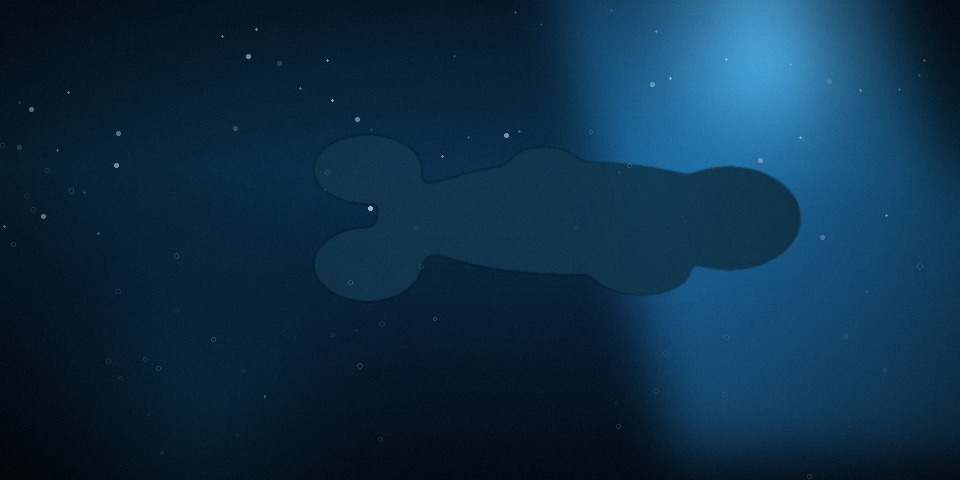
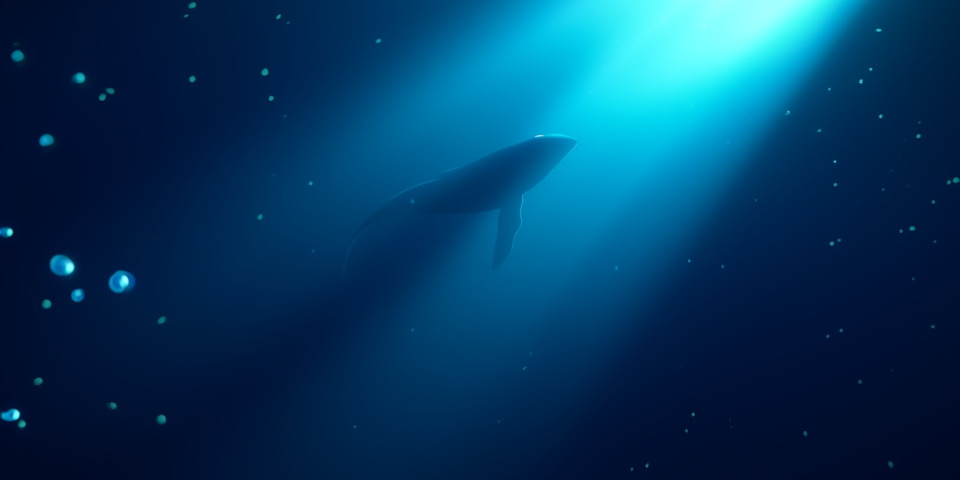
feat(theme): 主题底图改为生图模型产出，重排蒙版与排版

diff --git a/tools/gen_wallpaper.py b/tools/gen_wallpaper.py
@@ -1,0 +1,97 @@
+# SPDX-License-Identifier: GPL-3.0-or-later
+"""调通义万相（DashScope）生成主题底图：提交 → 轮询 → 下载。
+
+用法：
+    python tools/gen_wallpaper.py --prompt "..." --out xx.png [--size 1280*720] [--n 1]
+"""
+from __future__ import annotations
+
+import argparse
+import json
+import os
+import time
+import urllib.request
+from pathlib import Path
+
+BASE = "https://dashscope.aliyuncs.com/api/v1"
+SUBMIT = f"{BASE}/services/aigc/text2image/image-synthesis"
+TASK = f"{BASE}/tasks/"
+
+
+def _key() -> str:
+    key = os.environ.get("DASHSCOPE_API_KEY", "")
+    if key:
+        return key
+    env = Path(os.environ.get("LOCALAPPDATA", "")) / "hermes" / ".env"
+    if env.exists():
+        for line in env.read_text(encoding="utf-8", errors="ignore").splitlines():
+            if line.startswith("DASHSCOPE_API_KEY="):
+                return line.split("=", 1)[1].strip().strip('"')
+    raise SystemExit("找不到 DASHSCOPE_API_KEY")
+
+
+def _post(url: str, payload: dict, key: str, async_hdr: bool = False) -> dict:
+    data = json.dumps(payload).encode()
+    req = urllib.request.Request(url, data=data, method="POST")
+    req.add_header("Authorization", f"Bearer {key}")
+    req.add_header("Content-Type", "application/json")
+    if async_hdr:
+        req.add_header("X-DashScope-Async", "enable")
+    with urllib.request.urlopen(req, timeout=60) as r:
+        return json.loads(r.read())
+
+
+def _get(url: str, key: str) -> dict:
+    req = urllib.request.Request(url)
+    req.add_header("Authorization", f"Bearer {key}")
+    with urllib.request.urlopen(req, timeout=60) as r:
+        return json.loads(r.read())
+
+
+def main() -> int:
+    ap = argparse.ArgumentParser()
+    ap.add_argument("--prompt", required=True)
+    ap.add_argument("--out", required=True)
+    ap.add_argument("--size", default="1280*720")
+    ap.add_argument("--n", type=int, default=1)
+    ap.add_argument("--model", default="wanx2.1-t2i-turbo")
+    ap.add_argument("--negative", default="文字, 水印, 边框, 低清晰度, 变形")
+    args = ap.parse_args()
+
+    key = _key()
+    task = _post(SUBMIT, {
+        "model": args.model,
+        "input": {"prompt": args.prompt, "negative_prompt": args.negative},
+        "parameters": {"size": args.size, "n": args.n, "prompt_extend": True},
+    }, key, async_hdr=True)
+    tid = task["output"]["task_id"]
+    print(f"提交 {tid}")
+
+    for _ in range(60):
+        time.sleep(5)
+        info = _get(TASK + tid, key)
+        st = info["output"]["task_status"]
+        if st == "SUCCEEDED":
+            results = info["output"].get("results") or []
+            outs = []
+            stem = Path(args.out)
+            for i, item in enumerate(results):
+                url = item.get("url")
+                if not url:
+                    continue
+                target = stem if len(results) == 1 else stem.with_name(f"{stem.stem}-{i + 1}{stem.suffix}")
+                data = urllib.request.urlopen(url, timeout=120).read()
+                target.write_bytes(data)
+                outs.append(target)
+                print("下载", target, len(data) // 1024, "KB")
+            return 0 if outs else 1
+        if st in ("FAILED", "CANCELED", "UNKNOWN"):
+            print("失败：", json.dumps(info, ensure_ascii=False)[:400])
+            return 1
+        print("  ", st)
+    print("超时")
+    return 1
+
+
+if __name__ == "__main__":
+    raise SystemExit(main())

diff --git a/tools/make_theme_art.py b/tools/make_theme_art.py
@@ -102,6 +102,33 @@ def _finish(img: Image.Image, *, vig: float = 0.5, grain: int = 3, seed: int = 7
     return ImageChops.add(out, Image.merge("RGB", (noise, noise, noise)), scale=1.0, offset=-128)
 
 
+def deepsea_mask(W: int = 960, H: int = 480) -> Image.Image:
+    """深海主题蒙版：左侧压暗 + 底部玻璃面板 + 一条细高光。"""
+    mask = Image.new("RGBA", (W, H), (0, 0, 0, 0))
+    md = ImageDraw.Draw(mask, "RGBA")
+    scrim = Image.new("L", (W, H), 0)
+    sdw = ImageDraw.Draw(scrim)
+    for i in range(int(H * 0.25)):
+        a = int(150 * (1 - i / (H * 0.25)) ** 1.8)
+        sdw.line([(0, i), (W, i)], fill=a)
+    mask.paste(Image.new("RGBA", (W, H), (2, 10, 18, 255)), (0, 0), scrim)
+    md.line([(0, H - 1), (W, H - 1)], fill=(120, 200, 235, 26), width=1)
+    md.rounded_rectangle([24, H - 132, 372, H - 24], radius=16,
+                         fill=(4, 20, 32, 150), outline=(96, 176, 210, 60), width=1)
+    return mask
+
+
+def harbor_mask(W: int = 1480, H: int = 720) -> Image.Image:
+    """夜港主题蒙版：右下时间面板 + 底部指标条 + 轻微右侧压暗。"""
+    mask = Image.new("RGBA", (W, H), (0, 0, 0, 0))
+    md = ImageDraw.Draw(mask, "RGBA")
+    md.rounded_rectangle([W - 470, H - 210, W - 60, H - 10], radius=20,
+                         fill=(8, 5, 22, 165), outline=(190, 140, 235, 55), width=1)
+    md.rounded_rectangle([40, H - 110, 1000, H - 12], radius=18,
+                         fill=(8, 5, 22, 165), outline=(190, 140, 235, 40), width=1)
+    return mask
+
+
 def _whale_mask(w: int, h: int) -> Image.Image:
     """鲸鱼剪影蒙版：几个椭圆取并集再羽化，头右尾左。"""
     m = Image.new("L", (w, h), 0)
@@ -309,6 +336,19 @@ def make_neon_harbor() -> tuple[Image.Image, Image.Image]:
 
 
 def main() -> int:
+    import sys
+    if "--masks-only" in sys.argv:              # 底图已经用生图模型出好了，只补蒙版
+        for tid, fn in (("deepsea", deepsea_mask), ("neon-harbor", harbor_mask)):
+            bg_path = THEMES / tid / "bg.jpg"
+            size = Image.open(bg_path).size if bg_path.exists() else None
+            if size is None:
+                print(f"{tid}: 缺 bg.jpg，跳过")
+                continue
+            m = fn(*size)
+            m.save(THEMES / tid / "mask.png")
+            print(f"{tid}: mask {m.size} → {THEMES / tid / 'mask.png'}")
+        return 0
+
     jobs = {
         "deepsea": make_deepsea,
         "neon-harbor": make_neon_harbor,

diff --git a/docs/THEMES.md b/docs/THEMES.md
@@ -1,0 +1,53 @@
+# 主题一览
+
+仓库自带两套主题，都用真实底图 + 蒙版 + 信息层三层结构。两块屏可以各用一套（`lcdmuse.yaml` 里的 `device_themes`）。
+
+| 主题 id | 名称 | 设计尺寸 | 底图来源 |
+|---|---|---|---|
+| `deepsea` | 深海月光 | 960×480 | 通义万相生成 |
+| `neon-harbor` | 夜港霓虹 | 1480×720 | 通义万相生成 |
+| `bezel-mask` | 侧栏蒙版 | 960×480 | 程序化渐变（纯色底 + 蒙版） |
+
+## 目录结构
+
+```
+themes/<id>/
+  theme.yaml    # api / size / background / overlay
+  bg.jpg        # 底图（可被 lcdmuse.yaml 的 background: 覆盖）
+  mask.png      # RGBA 蒙版：压暗、玻璃面板、细高光
+```
+
+## 重新生成底图
+
+底图是生图模型出的（不是程序画的风扇形渐变），提示词和尺寸记在这里，方便重画或做新配色：
+
+**deepsea（960×480，2:1）** — 先生成 1280×720 再居中裁成 2:1
+```
+深海夜晚，一束月光从右上斜射入水中形成体积光，远处的鲸鱼剪影，
+细小气泡与浮游微粒，深蓝色调，安静神秘，电影感，极简构图，画面右下角留出空白
+```
+
+**neon-harbor（1480×720）** — 先生成 1280×720 再缩放到 1480×720
+```
+夜晚的港口城市，远处高楼天际线亮着暖黄和青色窗灯，水面上是霓虹倒影，
+右上方一轮明月和淡淡光晕，深紫与靛蓝色调，赛博朋克但克制安静，
+宽银幕构图，无人物，画面左侧与底部留出较暗的空白
+```
+
+命令（需要 `DASHSCOPE_API_KEY`，会从 `%LOCALAPPDATA%\hermes\.env` 自动读）：
+
+```
+python tools/gen_wallpaper.py --size 1280*720 --n 2 --out out/deepsea.png --prompt "…"
+python tools/make_theme_art.py --masks-only     # 换完底图只补蒙版
+```
+
+`tools/make_theme_art.py` 不带参数时会用程序化方式重画底图（不需要联网），保留作为离线兜底。
+
+## 换底图不改排版
+
+`theme.yaml` 的 `size` 是设计坐标，渲染到别的分辨率时 overlay 会等比缩放。只想换图不想动排版：
+把新图裁成 `size` 的比例存成 `bg.jpg`，再跑一次 `--masks-only` 对齐蒙版即可。
+
+## 授权
+
+底图为本项目用生图模型生成的原创图（通义万相，DashScope 服务条款允许商用）。蒙版与排版代码同本项目授权。
